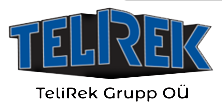
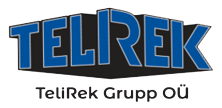
imported gallery to main branch

diff --git a/src/components/referents-page-components/Gallery.jsx b/src/components/referents-page-components/Gallery.jsx
@@ -1,0 +1,237 @@
+import React, { useState, useEffect, useCallback, useMemo } from 'react';
+import { motion, AnimatePresence } from 'framer-motion';
+import { ChevronLeft, ChevronRight } from 'lucide-react';
+
+const IMAGES_PER_PAGE = 12;
+
+const Gallery = () => {
+  const [images, setImages] = useState([]);
+  const [loading, setLoading] = useState(true);
+  const [selectedImage, setSelectedImage] = useState(null);
+  const [loadedImages, setLoadedImages] = useState(0);
+  const [visibleImages, setVisibleImages] = useState([]);
+  const [page, setPage] = useState(1);
+  const [hasMore, setHasMore] = useState(true);
+  const [isLoadingMore, setIsLoadingMore] = useState(false);
+
+  // Memoize the image loading function
+  const loadImages = useCallback(async () => {
+    try {
+      const imageContext = import.meta.glob('/src/assets/gallery/*.{jpg,jpeg,png}', { 
+        eager: true,
+        import: 'default'
+      });
+      
+      const imageArray = Object.entries(imageContext).map(([path, module]) => ({
+        src: module,
+        alt: path.split('/').pop(),
+        loaded: false
+      }));
+
+      setImages(imageArray);
+      setVisibleImages(imageArray.slice(0, IMAGES_PER_PAGE));
+      setHasMore(imageArray.length > IMAGES_PER_PAGE);
+      setLoading(false);
+    } catch (error) {
+      console.error('Error loading images:', error);
+      setLoading(false);
+    }
+  }, []);
+
+  useEffect(() => {
+    loadImages();
+  }, [loadImages]);
+
+  // Load more images function
+  const loadMoreImages = useCallback(() => {
+    setIsLoadingMore(true);
+    const nextPage = page + 1;
+    const startIndex = (nextPage - 1) * IMAGES_PER_PAGE;
+    const endIndex = startIndex + IMAGES_PER_PAGE;
+    
+    if (startIndex < images.length) {
+      setVisibleImages(prev => [...prev, ...images.slice(startIndex, endIndex)]);
+      setPage(nextPage);
+      setHasMore(endIndex < images.length);
+    }
+    setIsLoadingMore(false);
+  }, [page, images]);
+
+  // Optimized image load handler
+  const handleImageLoad = useCallback(() => {
+    setLoadedImages(prev => {
+      const newCount = prev + 1;
+      if (newCount === images.length) {
+        setLoading(false);
+      }
+      return newCount;
+    });
+  }, [images.length]);
+
+  // Memoized keyboard navigation
+  const handleKeyDown = useCallback((e) => {
+    if (!selectedImage) return;
+    
+    const currentIndex = images.findIndex(img => img.src === selectedImage.src);
+    
+    switch (e.key) {
+      case 'ArrowLeft':
+        setSelectedImage(images[(currentIndex - 1 + images.length) % images.length]);
+        break;
+      case 'ArrowRight':
+        setSelectedImage(images[(currentIndex + 1) % images.length]);
+        break;
+      case 'Escape':
+        setSelectedImage(null);
+        break;
+      default:
+        break;
+    }
+  }, [selectedImage, images]);
+
+  useEffect(() => {
+    window.addEventListener('keydown', handleKeyDown);
+    return () => window.removeEventListener('keydown', handleKeyDown);
+  }, [handleKeyDown]);
+
+  // Memoized navigation function
+  const navigateImage = useCallback((direction) => {
+    const currentIndex = images.findIndex(img => img.src === selectedImage.src);
+    const newIndex = direction === 'next' 
+      ? (currentIndex + 1) % images.length 
+      : (currentIndex - 1 + images.length) % images.length;
+    setSelectedImage(images[newIndex]);
+  }, [selectedImage, images]);
+
+  // Memoize the current image index
+  const currentImageIndex = useMemo(() => 
+    selectedImage ? images.findIndex(img => img.src === selectedImage.src) + 1 : 0,
+    [selectedImage, images]
+  );
+
+  return (
+    <motion.div
+      initial={{ opacity: 0 }}
+      animate={{ opacity: 1 }}
+      exit={{ opacity: 0 }}
+      className="container mx-auto px-4 py-8"
+    >
+      
+      {/* Loading Progress Bar */}
+      {loading && (
+        <div className="w-full h-2 bg-gray-200 mb-8">
+          <motion.div
+            className="h-full bg-[#00529c]"
+            initial={{ width: 0 }}
+            animate={{ width: `${(loadedImages / images.length) * 100}%` }}
+            transition={{ duration: 0.3 }}
+          />
+        </div>
+      )}
+
+      <div className="space-y-8">
+        {/* Image Grid */}
+        <div className="grid grid-cols-1 md:grid-cols-2 lg:grid-cols-3 gap-6">
+          {visibleImages.map((image, index) => (
+            <motion.div
+              key={image.alt}
+              initial={{ opacity: 0, y: 20 }}
+              animate={{ opacity: 1, y: 0 }}
+              transition={{ delay: index * 0.1 }}
+              className="relative aspect-square overflow-hidden shadow-lg cursor-pointer hover:shadow-xl transition-shadow duration-300"
+              onClick={() => setSelectedImage(image)}
+            >
+              <img
+                src={image.src}
+                alt={image.alt}
+                className="w-full h-full object-cover"
+                onLoad={handleImageLoad}
+                loading="lazy"
+                decoding="async"
+              />
+            </motion.div>
+          ))}
+        </div>
+
+        {/* Show More Button */}
+        {!loading && visibleImages.length < images.length && (
+          <div className="flex justify-center mt-8">
+            <button
+              onClick={loadMoreImages}
+              disabled={isLoadingMore}
+              className={`
+                text-gray-500 hover:text-[#00529c] transition-colors duration-300 
+                text-lg font-medium py-3 px-8 border-2 
+                border-gray-300 hover:border-[#00529c] 
+                disabled:opacity-50 disabled:cursor-not-allowed
+                ${isLoadingMore ? 'animate-pulse' : ''}
+              `}
+            >
+              {isLoadingMore ? 'Laen...' : 'Näita rohkem'}
+            </button>
+          </div>
+        )}
+      </div>
+
+      {/* Lightbox */}
+      <AnimatePresence>
+        {selectedImage && (
+          <motion.div
+            initial={{ opacity: 0 }}
+            animate={{ opacity: 1 }}
+            exit={{ opacity: 0 }}
+            className="fixed inset-0 bg-black bg-opacity-90 z-[9999] flex items-center justify-center p-4"
+            onClick={() => setSelectedImage(null)}
+          >
+            {/* Previous Button */}
+            <button
+              className="absolute left-4 top-1/2 -translate-y-1/2 text-white p-2 hover:bg-white/10 transition-colors"
+              onClick={(e) => {
+                e.stopPropagation();
+                navigateImage('prev');
+              }}
+            >
+              <ChevronLeft size={40} />
+            </button>
+
+            {/* Next Button */}
+            <button
+              className="absolute right-4 top-1/2 -translate-y-1/2 text-white p-2 hover:bg-white/10 transition-colors"
+              onClick={(e) => {
+                e.stopPropagation();
+                navigateImage('next');
+              }}
+            >
+              <ChevronRight size={40} />
+            </button>
+
+            {/* Image Counter */}
+            <div className="absolute bottom-4 left-1/2 -translate-x-1/2 text-white text-lg">
+              {currentImageIndex} / {images.length}
+            </div>
+
+            <motion.img
+              initial={{ scale: 0.8 }}
+              animate={{ scale: 1 }}
+              exit={{ scale: 0.8 }}
+              src={selectedImage.src}
+              alt={selectedImage.alt}
+              className="max-h-[90vh] max-w-[90vw] object-contain"
+              onClick={(e) => e.stopPropagation()}
+              loading="eager"
+              decoding="async"
+            />
+            <button
+              className="absolute top-4 right-4 text-white text-4xl hover:text-gray-300"
+              onClick={() => setSelectedImage(null)}
+            >
+              ×
+            </button>
+          </motion.div>
+        )}
+      </AnimatePresence>
+    </motion.div>
+  );
+};
+
+export default Gallery; 

diff --git a/src/components/referents-page-components/Header.jsx b/src/components/referents-page-components/Header.jsx
@@ -1,0 +1,35 @@
+import React from 'react';
+import BlueButton from '../BlueButton';
+import * as motion from "motion/react-client";
+import HeaderImg from '../../assets/about-page-assets/received_1075846640045180.jpeg';
+
+const Header = () => {
+    return (
+        <div className="relative w-full h-[550px] overflow-hidden">
+            {/* Background Image */}
+            <img
+                src={HeaderImg}
+                alt="Background"
+                className="absolute inset-0 w-full h-[550px] object-cover z-0 border-b-4 border-[#00529c]"
+            />
+
+            <motion.div 
+                initial={{ opacity: 0, scale: 0 }}
+                animate={{ opacity: 1, scale: 1 }}
+                transition={{
+                    duration: 0.4,
+                    scale: { type: "spring", visualDuration: 0.4, bounce: 0.5 },
+                }}
+                className='relative z-[998] text-center text-[#fbfbfb]'
+            >
+
+                <h1 className='mt-[225px] lg:text-7xl text-4xl'>REFERENTSID</h1>
+
+            </motion.div>
+
+            <div className="absolute inset-0 bg-black/40 z-10 h-[550px]" />
+        </div>
+    );
+};
+
+export default Header;

diff --git a/src/components/NavBar.jsx b/src/components/NavBar.jsx
@@ -1,5 +1,6 @@
 import React, { useState, useEffect } from 'react';
 import BlueButton from './BlueButton';
+import Logo from '../assets/telirek.png';
 
 const NavBar = () => {
     const [scrolling, setScrolling] = useState(false);
@@ -25,12 +26,12 @@ const NavBar = () => {
         <div className={`
             w-full fixed top-0 left-0 z-[999] transition-all duration-300 ease-in-out
             ${scrolling ? 'bg-[#fbfbfb]' : 'md:bg-transparent bg-[#fbfbfb]'}
-            ${scrolling ? 'py-[10px] shadow-md text-black' : 'py-[25px] md:text-[#fbfbfb] text-black'}
+            ${scrolling ? 'py-[10px] shadow-md text-[#414141]' : 'py-[25px] md:text-[#fbfbfb] text-[#414141]'}
         `}>
             <div className="flex items-center justify-between px-6 md:px-[100px] xl:px-[250px]">
                 {/* Logo */}
                 <a href='/' className={`text-3xl font-semibold transition-all ${scrolling ? 'text-2xl' : 'text-3xl'}`}>
-                    Logo
+                    <img src={Logo} alt="Telirek Logo" className="h-12" />
                 </a>
 
                 {/* Desktop Links */}

diff --git a/src/components/home-page-components/LandingPage.jsx b/src/components/home-page-components/LandingPage.jsx
@@ -25,12 +25,14 @@ const LandingPage = () => {
                         duration: 0.4,
                         scale: { type: "spring", visualDuration: 0.4, bounce: 0.5 },
                     }}
+                    className='text-center'
                 >
-                    <h1 className="text-5xl md:text-6xl font-bold mb-6">
+                    <h1 className="text-5xl md:text-6xl lg:text-7xl font-bold mb-6">
                         TELIREK
                     </h1>
-
-                    <BlueButton href='/'>Kontakt</BlueButton> 
+                    <p className="text-xl md:text-2xl mb-8 max-w-2xl opacity-95">
+                        Ehitustööde professionaalid, kes teevad <br className='md:block hidden' /> teie unistused reaalsuseks
+                    </p>
                     
                 </motion.div>
             </div>

diff --git a/src/App.jsx b/src/App.jsx
@@ -4,6 +4,7 @@ import HomePage from './views/HomePage'
 import AboutPage from './views/AboutPage'
 import ContactPage from './views/ContactPage'
 import ServicesPage from './views/ServicesPage'
+import ReferentsPage from './views/ReferentsPage'
 
 function App() {
 
@@ -15,6 +16,7 @@ function App() {
           <Route index path="/" element={ <HomePage /> } />
           <Route path='/meist' element={ <AboutPage /> } />
           <Route path='/teenused' element={ <ServicesPage /> } />
+          <Route path='/referentsid' element={ <ReferentsPage /> } />
           <Route path='/kontakt' element={ <ContactPage /> } />
 
         </Routes>

diff --git a/src/views/ReferentsPage.jsx b/src/views/ReferentsPage.jsx
@@ -1,0 +1,21 @@
+import React from 'react';
+import NavBar from '../components/NavBar';
+import Footer from '../components/Footer';
+import ScrollToTop from '../components/ScrollToTop';
+import Gallery from '../components/referents-page-components/Gallery';
+import Header from '../components/referents-page-components/Header';
+
+const ReferentsPage = () => {
+  return (
+    <div>
+      <NavBar />
+      <Header /> 
+      <Gallery />
+
+      <ScrollToTop />
+      <Footer />
+    </div>
+  );
+};
+
+export default ReferentsPage; 

diff --git a/index.html b/index.html
@@ -2,7 +2,7 @@
 <html lang="en">
   <head>
     <meta charset="UTF-8" />
-    <link rel="icon" type="image/svg+xml" href="/vite.svg" />
+    <link rel="icon" type="image/svg+xml" href="/src/assets/telirek.png" />
     <meta name="viewport" content="width=device-width, initial-scale=1.0" />
     <title>Telirek Grupp OÜ |</title>
   </head>
